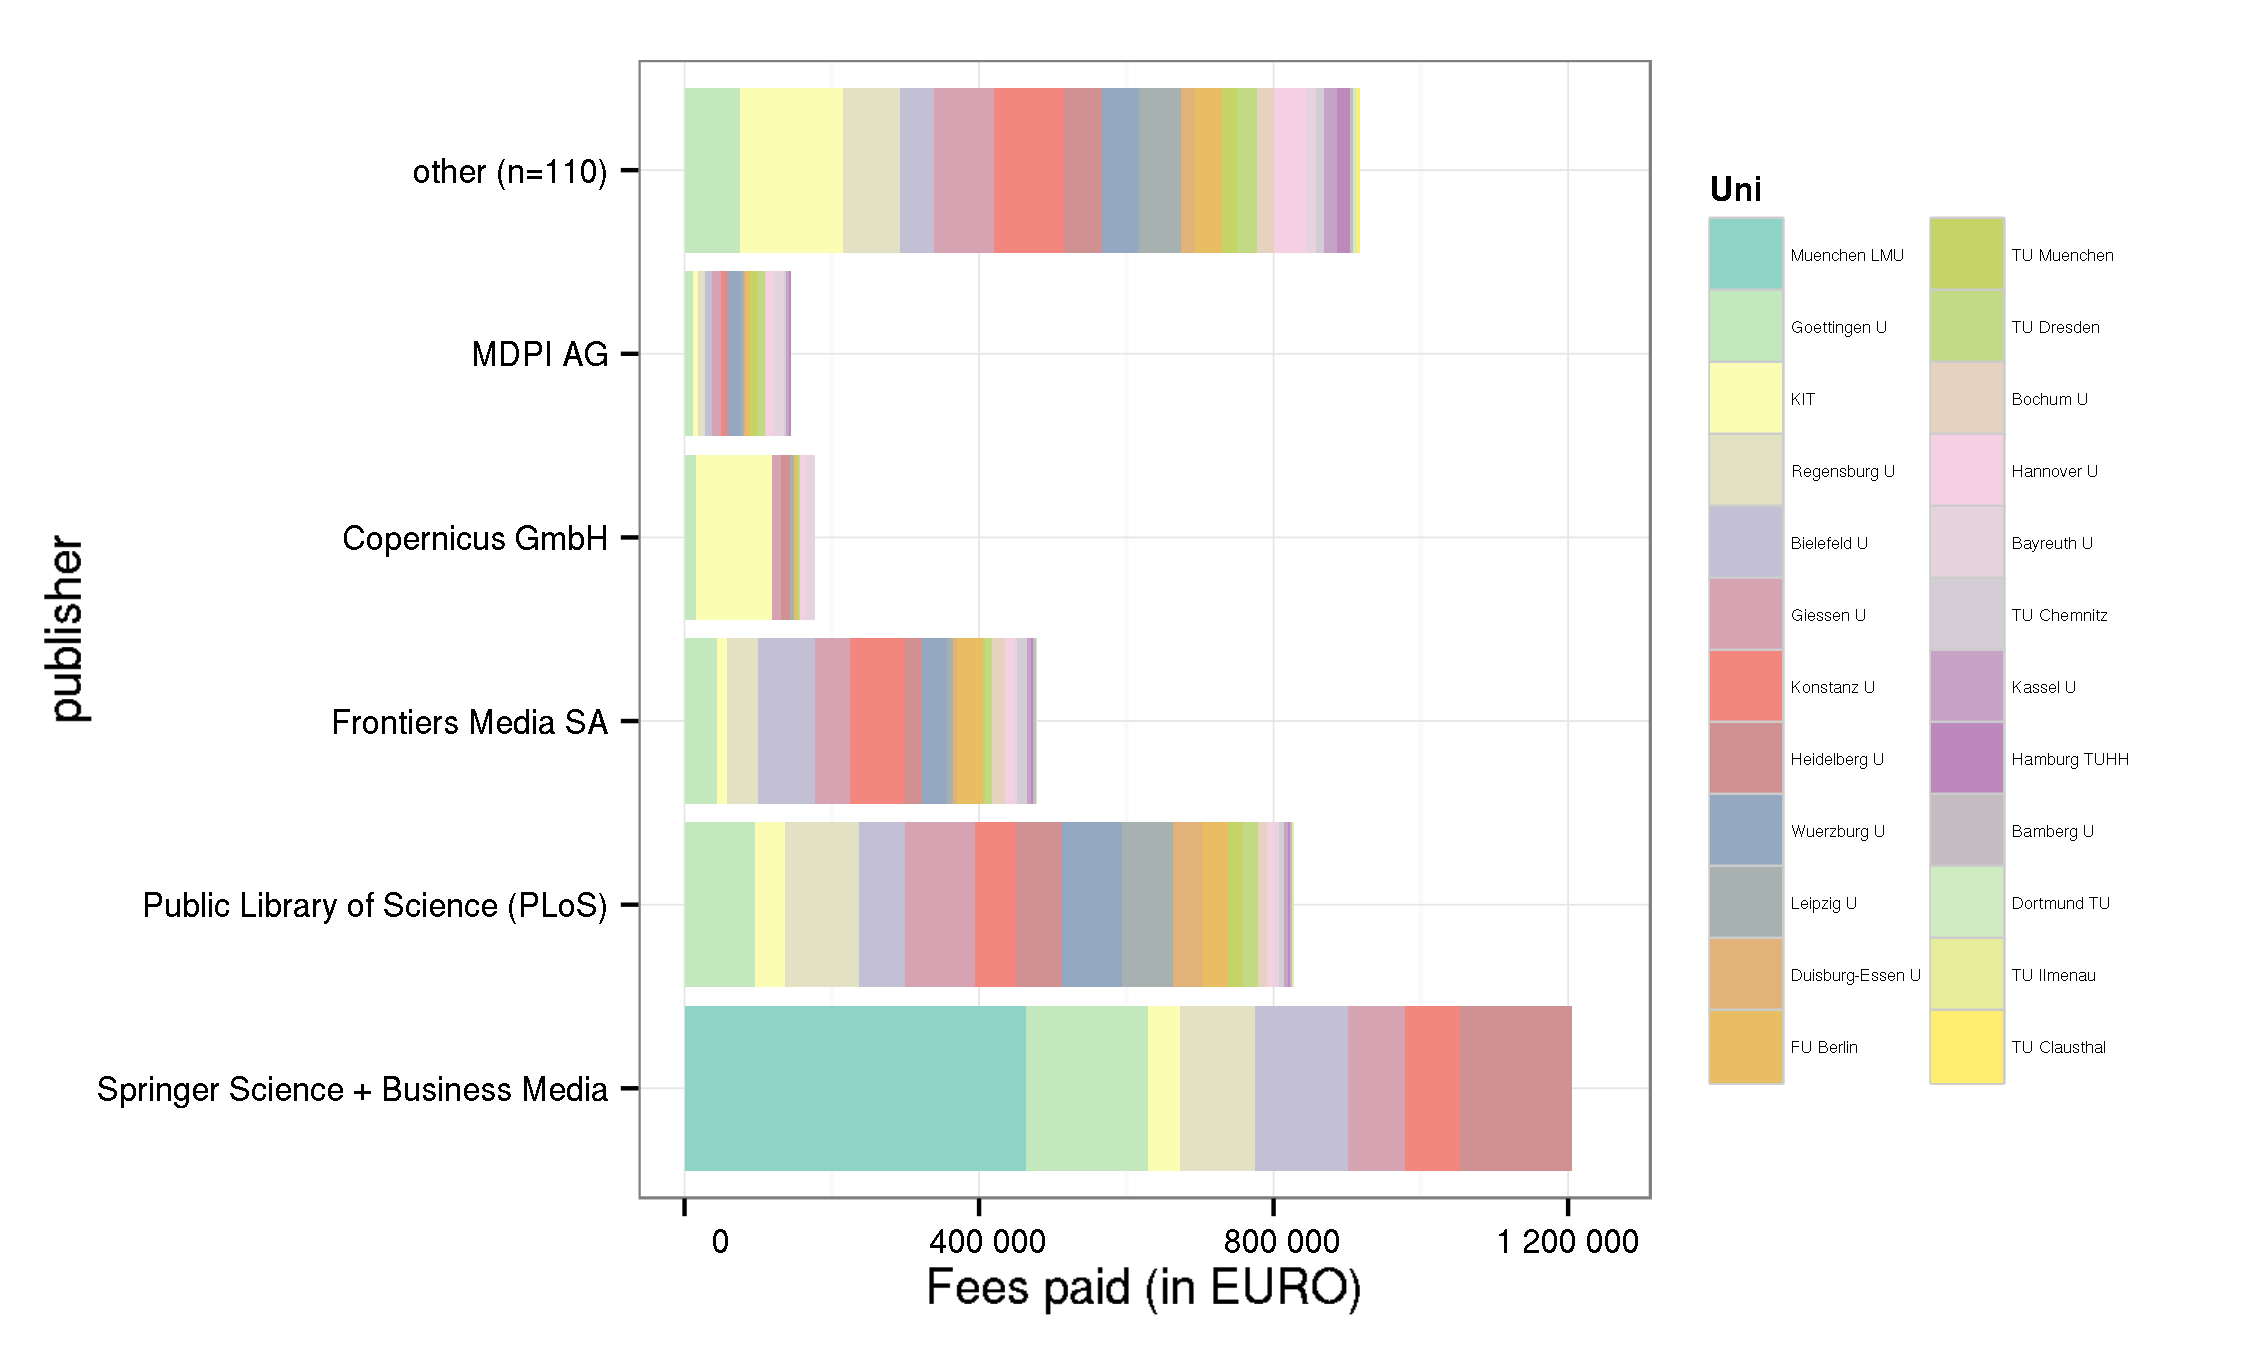
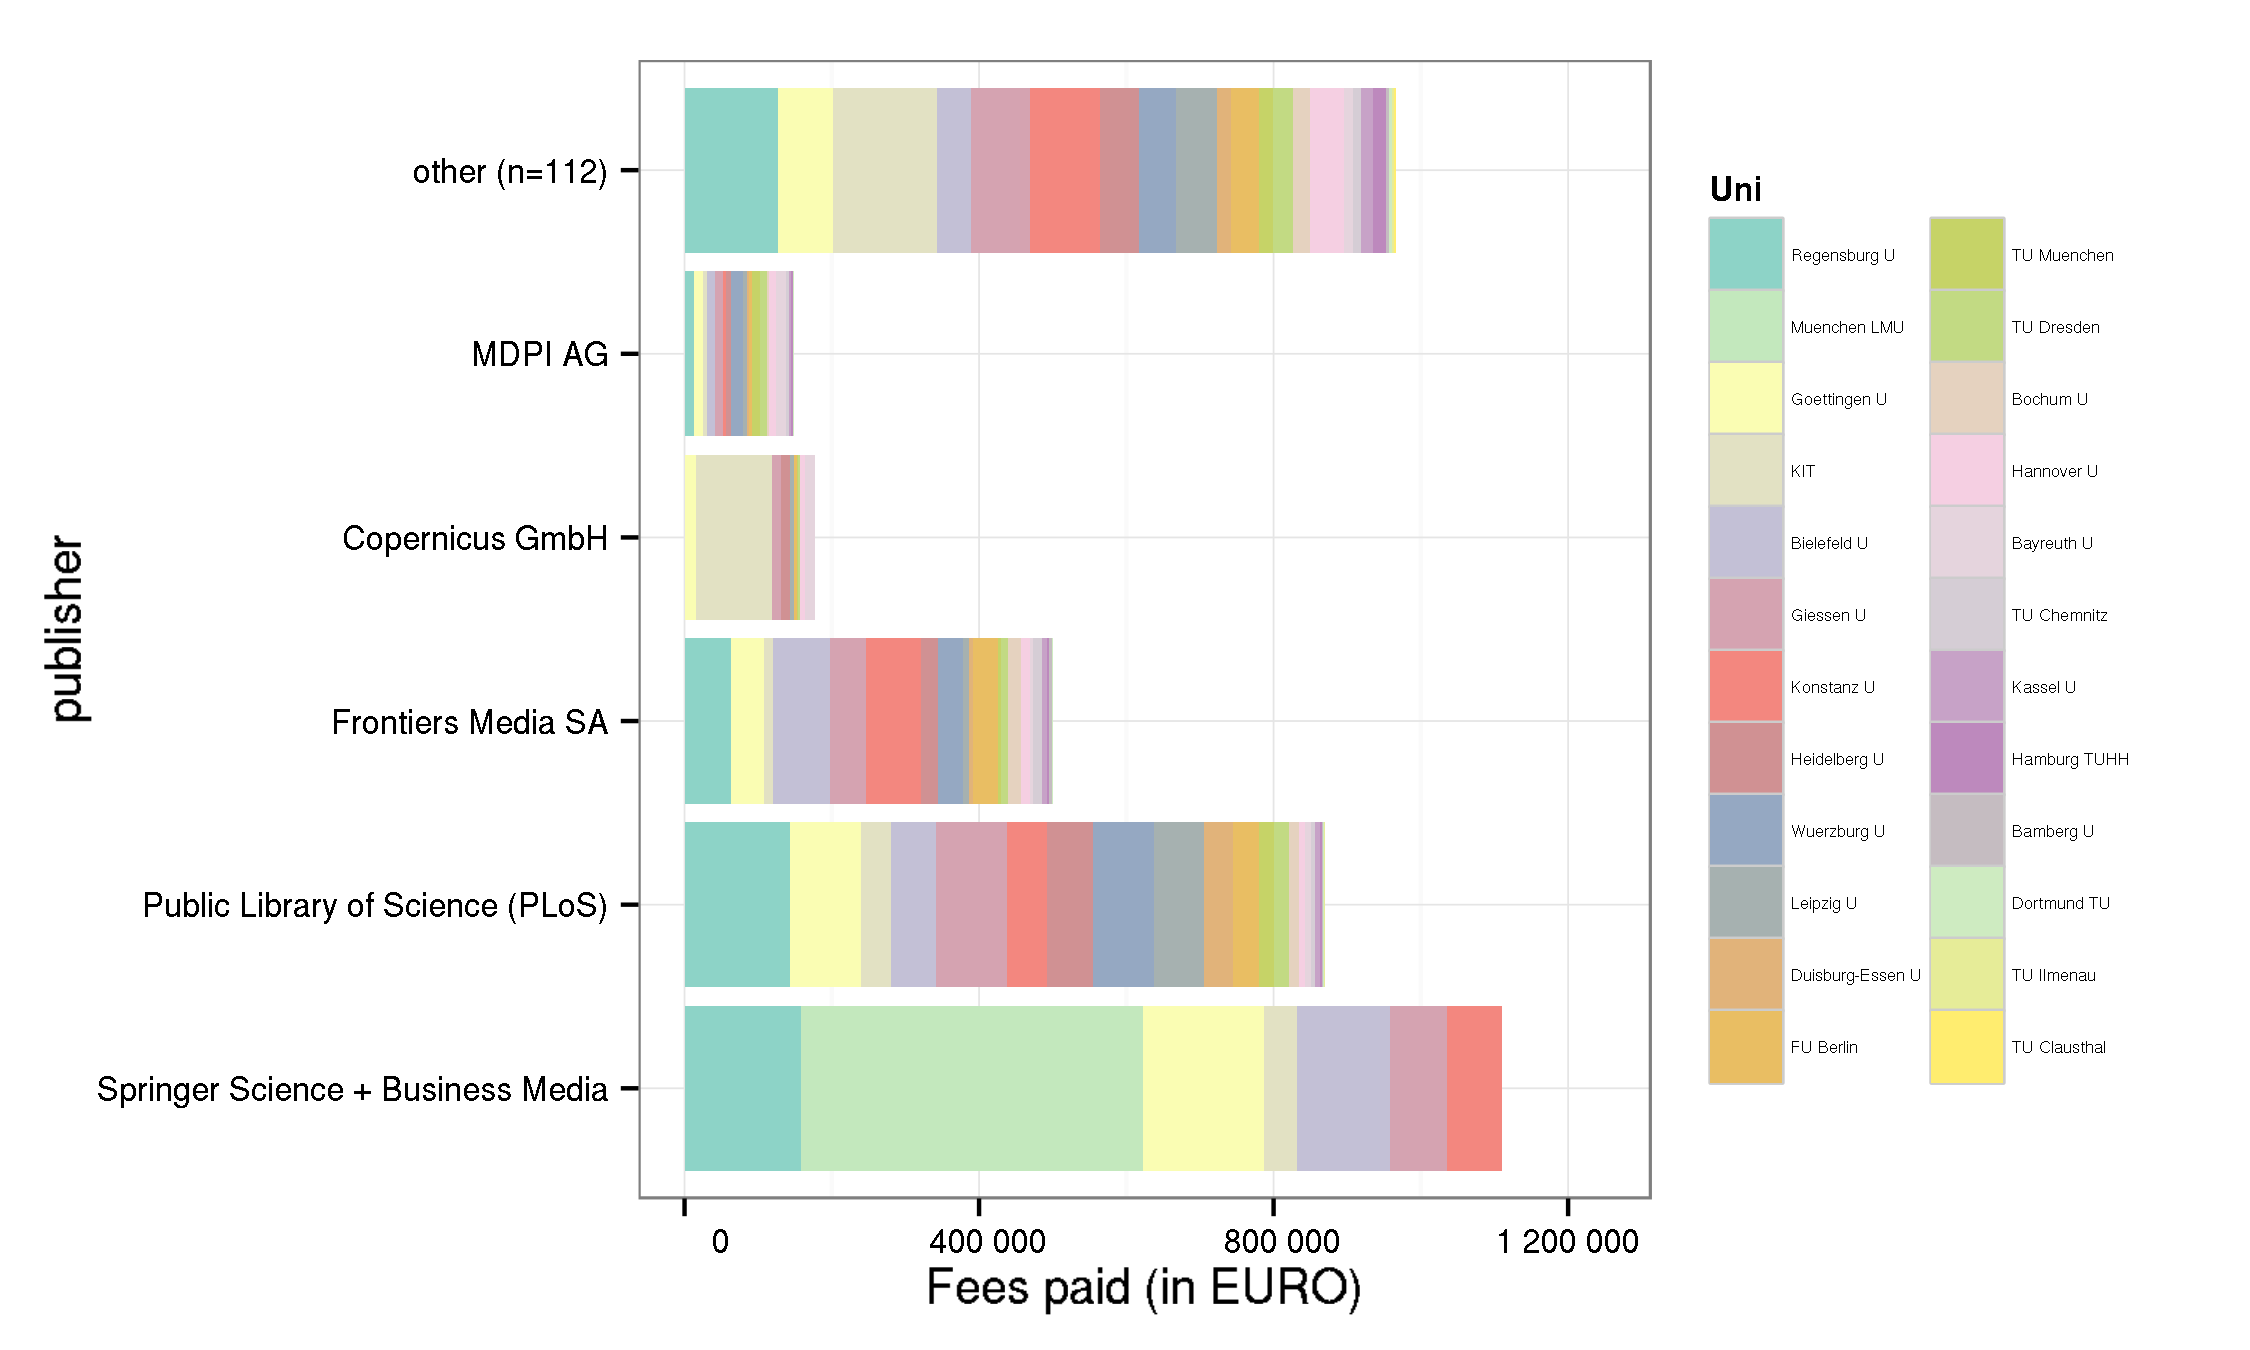
Added Regensburg U APC data 2010, 2011 and 2015 (#96)

Changed region(s): [[0.28, 0.0622, 0.7156, 0.8711]]

diff --git a/README.md b/README.md
@@ -60,13 +60,13 @@ ation/library)
 
 Information on both open access journal articles and open access publication of articles in toll-access journals ("hybrid") are provided.
 
-In total,  8 097 413 € for  6 328 articles were paid by the participating unviversities. Average  fee is 1 279.6 € and the median 1 208 €.
+In total,  8 270 337 € for  6 449 articles were paid by the participating unviversities. Average  fee is 1 282.4 € and the median 1 211 €.
 
 ### Open Access Journals
 
 
 
-At the moment, the dataset releases information on 6 275 articles in open access journals which charge publication fees. Total expenditure amounts to  8 009 572 €. Average  fee is 1 276.4 € and the median 1 207 €.
+At the moment, the dataset releases information on 6 396 articles in open access journals which charge publication fees. Total expenditure amounts to  8 182 496 €. Average  fee is 1 279.3 € and the median 1 209 €.
 
 View dataset on [GitHub](https://github.com/OpenAPC/openapc-de/blob/master/data/apc_de.csv).
 
@@ -95,7 +95,7 @@ View dataset on [GitHub](https://github.com/OpenAPC/openapc-de/blob/master/data/
 |MDC                                         |       23|             41464|          1803|   1212|
 |MPG                                         |     2756|           3513989|          1275|   1161|
 |Muenchen LMU                                |      365|            463491|          1270|   1299|
-|Regensburg U                                |      280|            331718|          1185|   1183|
+|Regensburg U                                |      401|            504642|          1258|   1207|
 |TU Chemnitz                                 |       36|             37826|          1051|   1142|
 |TU Clausthal                                |        4|              3771|           943|    969|
 |TU Dresden                                  |       78|             96046|          1231|   1242|
